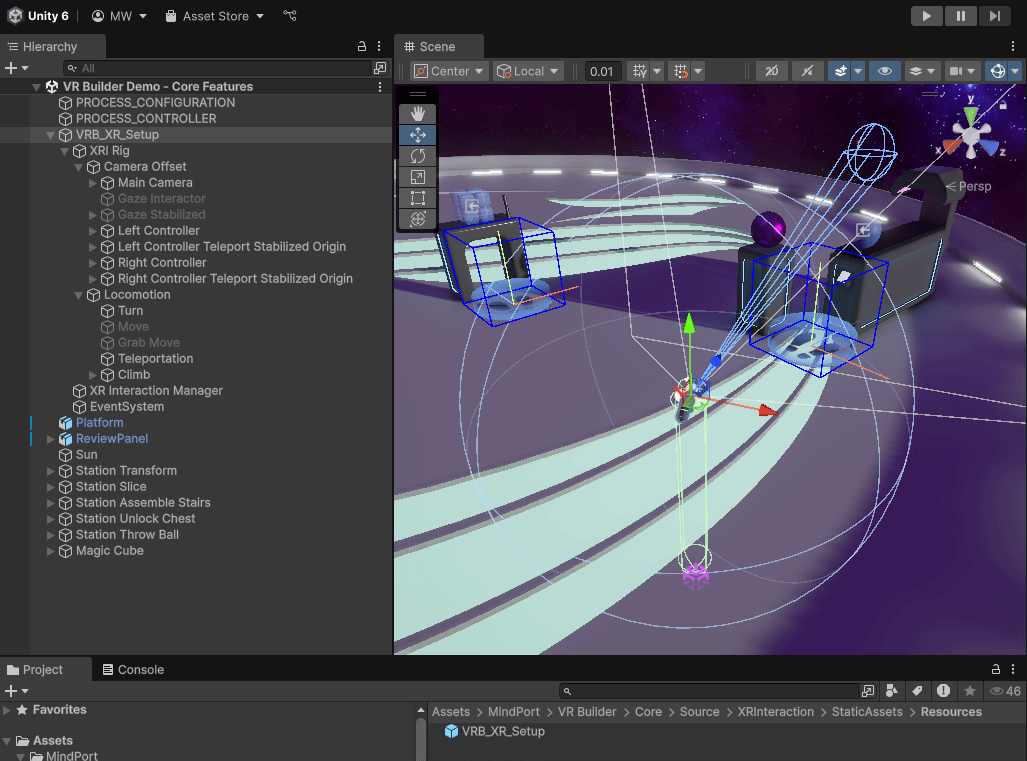
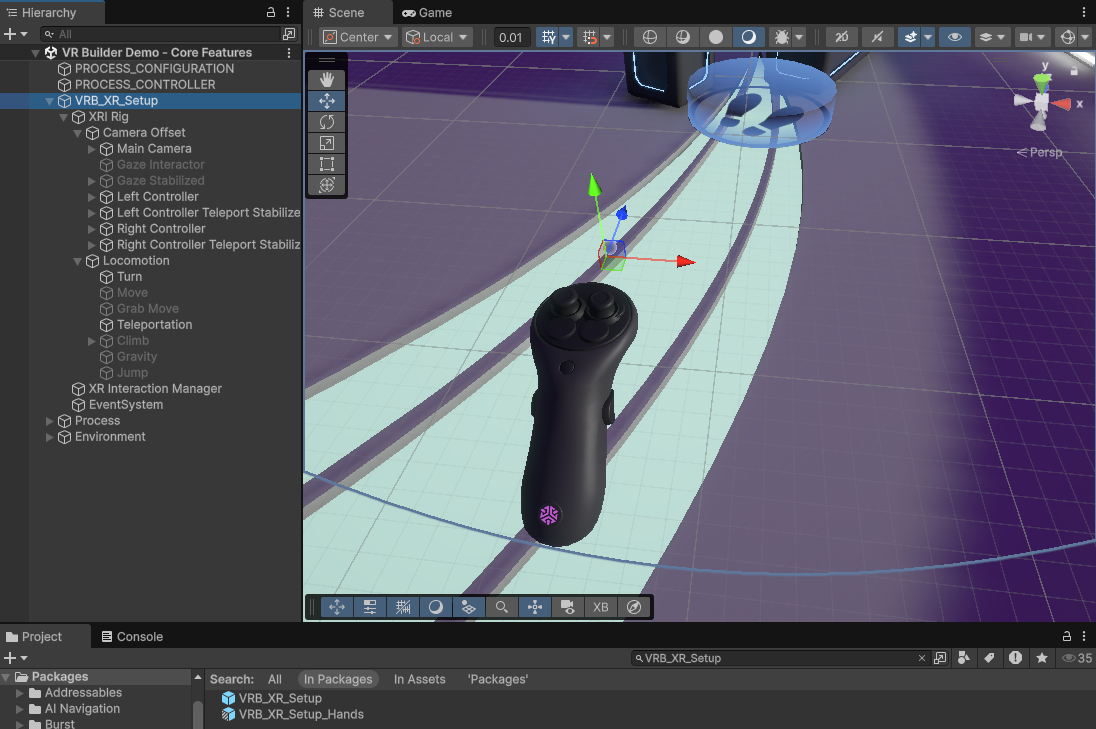
Added Documentation for VR Builder XR Rig with Hand Tracking (#20)

diff --git a/docfx/articles/core/xr-rig.md b/docfx/articles/core/xr-rig.md
@@ -6,4 +6,22 @@ The XR Rig is a game object that anchors the user’s head mounted display, cont
 
 When creating a new scene with the VR Builder Scene Setup Wizard, you get a `VRB_XR_Setup` game object automatically added to the scene. `VRB_XR_Setup` is the VR Builder XR Rig and is built upon the suggested standards set by the Unity XR Interaction Toolkit. Therefore, `VRB_XR_Setup` is very similar to the `XR Origin (XR Rig)` found in the XR Interaction Toolkit samples but has some additional VR Builder–specific scripts added.
 
+The `VRB_XR_Setup` game object is a fully unpacked copy of the prefab with the same name. If you are familiar with Unity’s prefab workflows you can use the prefab or better your own prefab variant of it.
+
 ![VR Builder XR Rig](images/rig_vrb_xr_rig.png)
+
+### VR Builder XR Rig with Hand Tracking
+
+VR Builder also includes an XR Rig that supports hand tracking. To use it, search for `VRB_XR_Setup_Hands` in the VR Builder Package and replace the `VRB_XR_Setup` game object with the `VRB_XR_Setup_Hands` prefab. Depending on your preferences, you can keep the `VRB_XR_Setup_Hands` prefab (see image below) or completely unpack it.
+
+Just like the `VRB_XR_Setup`, the `VRB_XR_Setup_Hands` is built on top of the XR Interaction Toolkit samples and aligns with these standards. For example, it supports automatic switching between hands and controllers. During runtime, the following logic is used for determining which modality is active: If a hand begins tracking, this component will switch to the hand group of interactors. If the player wakes the motion controllers by grabbing them, this component will switch to the motion controller group of interactors once they become tracked. While waiting to activate the controller GameObject while not tracked, both groups will be deactivated. For the exact implementation behavior or if you want to modify it, refer to the `XRInputModalityManager` inside the rig.
+
+![VR Builder XR Rig with Hand Tracking](images/rig_vrb_xr_rig_hands.png)
+
+#### Hand Locomotion
+If users need to move with hand tracking enabled, there is the built-in Grab Move locomotion type. Other ways of locomotion (e.g., teleportation via a hand gesture) are possible but require custom implementation effort.
+
+#### Troubleshooting
+If your hands do not show up, ensure that the OpenXR Feature Groups `Hand Tracking Subsystems` and `Meta Hand Tracking Aim` are enabled in the OpenXR page in the Project Settings.
+
+![Missing OpenXR Feature Groups](images/hand_tracking_missing_feature_groups.png)
